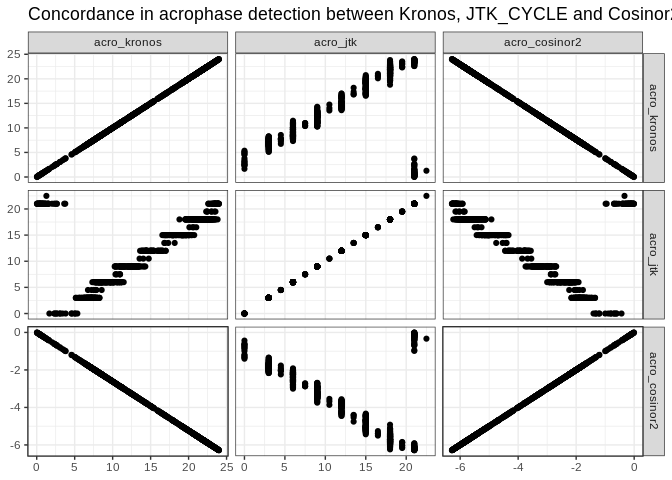
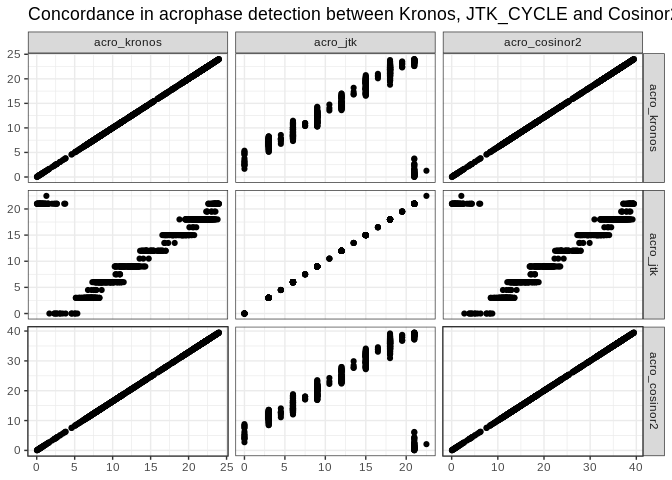
update

diff --git a/docs/benchmarking.md b/docs/benchmarking.md
@@ -79,12 +79,12 @@ head(res_cosinor2)
 ```
 
     ##                   r       r.sq      p.val      acro
-    ## Species_2 0.2682251 0.07194470 0.14458386 -5.932021
-    ## Species_3 0.1543544 0.02382527 0.40706041 -4.884728
-    ## Species_4 0.3072501 0.09440261 0.09269616 -5.045898
-    ## Species_5 0.2641740 0.06978789 0.15098209 -1.539592
-    ## Species_6 0.1262453 0.01593787 0.49857470 -3.365228
-    ## Species_8 0.2508729 0.06293720 0.17342296 -2.750773
+    ## Species_2 0.2682251 0.07194470 0.14458386 37.271985
+    ## Species_3 0.1543544 0.02382527 0.40706041 30.691649
+    ## Species_4 0.3072501 0.09440261 0.09269616 31.704311
+    ## Species_5 0.2641740 0.06978789 0.15098209  9.673541
+    ## Species_6 0.1262453 0.01593787 0.49857470 21.144350
+    ## Species_8 0.2508729 0.06293720 0.17342296 17.283619
 
 ``` r
 res_tot = do.call(cbind, list(res_kronos, res_jtk, res_limo, res_cosinor2))
